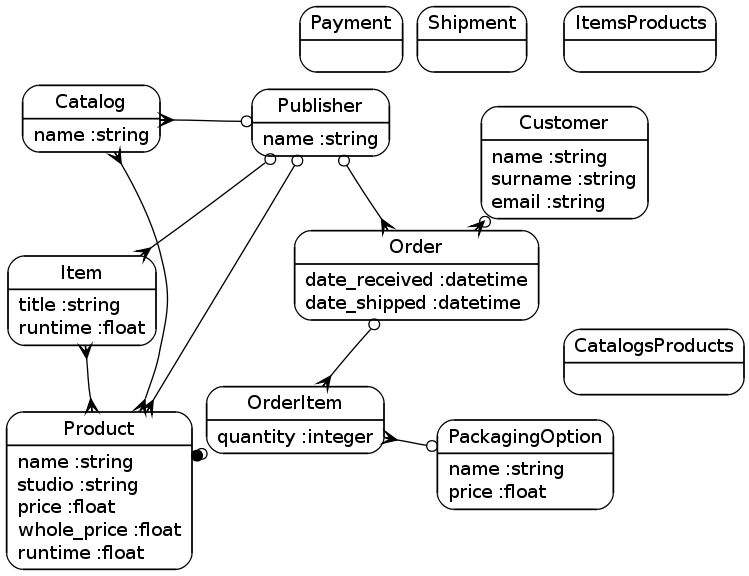
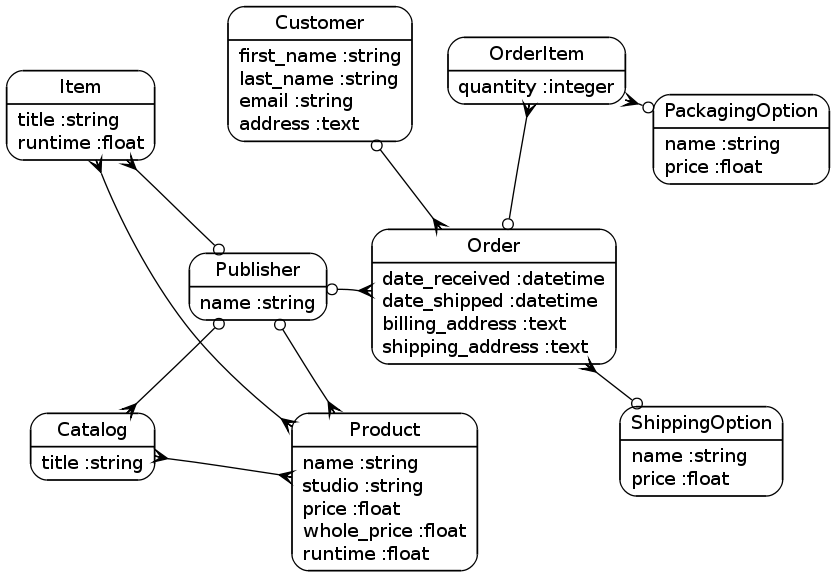
destroyed Shipment resource, added ShippingOptions, updated models.png

Changed region(s): [[0.0, 0.0, 1.0, 1.0], [0.3378, 0.3438, 0.3685, 0.4062], [0.215, 0.375, 0.2457, 0.4062]]

diff --git a/db/migrate/20100929212445_create_shipping_options.rb b/db/migrate/20100929212445_create_shipping_options.rb
@@ -1,0 +1,14 @@
+class CreateShippingOptions < ActiveRecord::Migration
+  def self.up
+    create_table :shipping_options do |t|
+      t.string :name
+      t.float :price
+
+      t.timestamps
+    end
+  end
+
+  def self.down
+    drop_table :shipping_options
+  end
+end

diff --git a/config/routes.rb b/config/routes.rb
@@ -1,7 +1,7 @@
 ActionController::Routing::Routes.draw do |map|
-  map.resources :packaging_options
+  map.resources :shipping_options
 
-  map.resources :shipments
+  map.resources :packaging_options
 
   map.resources :customers
 

diff --git a/test/functional/shipping_options_controller_test.rb b/test/functional/shipping_options_controller_test.rb
@@ -1,6 +1,6 @@
 require 'test_helper'
 
-class ShipmentTest < ActiveSupport::TestCase
+class ShippingOptionsControllerTest < ActionController::TestCase
   # Replace this with your real tests.
   test "the truth" do
     assert true

diff --git a/test/unit/shipping_option_test.rb b/test/unit/shipping_option_test.rb
@@ -1,6 +1,6 @@
 require 'test_helper'
 
-class ShipmentsControllerTest < ActionController::TestCase
+class ShippingOptionTest < ActiveSupport::TestCase
   # Replace this with your real tests.
   test "the truth" do
     assert true

diff --git a/app/models/order_item.rb b/app/models/order_item.rb
@@ -1,5 +1,5 @@
 class OrderItem < ActiveRecord::Base
   belongs_to :order
   belongs_to :packaging_option # StandardClamshell, PremiumJewelCase, etc.
-  has_one :product
+  belongs_to :product
 end

diff --git a/app/models/order.rb b/app/models/order.rb
@@ -1,5 +1,6 @@
 class Order < ActiveRecord::Base
   belongs_to :publisher
   belongs_to :customer
+  belongs_to :shipping_option
   has_many :order_items
 end

diff --git a/test/unit/helpers/shipping_options_helper_test.rb b/test/unit/helpers/shipping_options_helper_test.rb
@@ -1,0 +1,4 @@
+require 'test_helper'
+
+class ShippingOptionsHelperTest < ActionView::TestCase
+end

diff --git a/app/models/shipping_option.rb b/app/models/shipping_option.rb
@@ -1,0 +1,3 @@
+class ShippingOption < ActiveRecord::Base
+  has_many :orders
+end

diff --git a/app/controllers/shipping_options_controller.rb b/app/controllers/shipping_options_controller.rb
@@ -1,0 +1,2 @@
+class ShippingOptionsController < ApplicationController
+end

diff --git a/app/helpers/shipping_options_helper.rb b/app/helpers/shipping_options_helper.rb
@@ -1,0 +1,2 @@
+module ShippingOptionsHelper
+end
